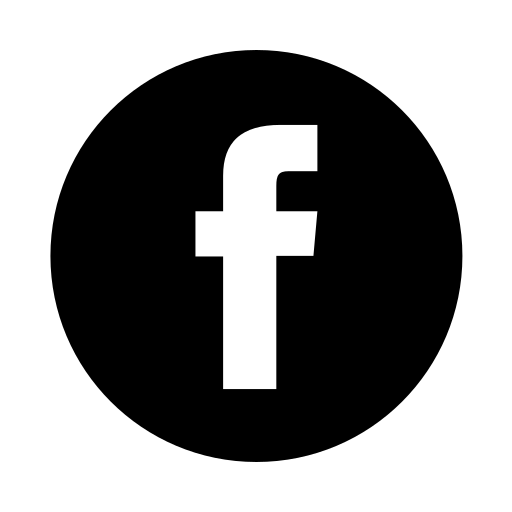
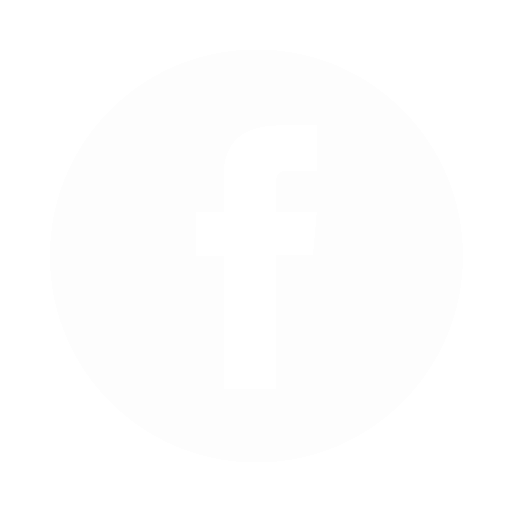
breakpoints on single site

diff --git a/assets/css/inarchives.min.css b/assets/css/inarchives.min.css
@@ -2,4 +2,4 @@
  * http://james-oldfield.co
  * Copyright (c) 2015; * Licensed GPLv2+ */
 
-@font-face{font-family:Mohave;src:url(../../assets/fonts/Mohave.otf) format("opentype")}@font-face{font-family:'Mohave Italics';src:url("../../assets/fonts/Mohave Italics.otf") format("opentype")}@font-face{font-family:Mohave-Bold;src:url(../../assets/fonts/Mohave-Bold.otf) format("opentype")}@font-face{font-family:'Mohave-Bold Italics';src:url("../../assets/fonts/Mohave-Bold Italics.otf") format("opentype")}::selection{color:#fff;background:#1a1a1a}::-moz-selection{color:#fff;background:#1a1a1a}body{font-family:Mohave,sans-serif!important;background:#fff;margin-top:-20px;word-wrap:break-word!important}.header{border-bottom:solid 3px #1a1a1a;background:url(../../images/girlBackground.jpg) top/auto 100%;padding:30px 20px!important}.header h2{font-family:'Mohave Italics',sans-serif;letter-spacing:10px}.header h2 a{color:#1a1a1a;text-decoration:none}.header .remind{margin-top:50px}.header .remind a{border:2px solid #fff;background:#000;background:rgba(0,0,0,.1);color:#fff;padding:20px;font-size:16px}.header h3{color:#fff;font-family:'Mohave Italics',sans-serif;letter-spacing:5px}.header h3 a{text-decoration:none;color:#fff;padding:0 5px;transition:background .1s ease;transition:color .1s ease}.header h3 a:hover{background:#1a1a1a;color:#fff}.header #countdown{color:#fff;font-size:50px;font-family:Mohave-Bold,sans-serif!important}input.signUp{color:#1a1a1a;text-align:center!important;font-size:12px!important;height:50px!important;width:300px;border:2px solid #d3d3d3!important}.attachment-post-thumb{max-width:100%;height:auto}.main{padding:30px 0}.main .title p{font-size:18px;margin:15px 0!important;color:#1a1a1a}.social-icons{background:#1a1a1a;color:#fff;padding:50px 0}.social-icons h3{margin-bottom:20px}.social-icons .clickMe{margin-top:20px;border-radius:0!important;color:#fff;background:#1a1a1a;border:1px solid #fff;font-size:14px;text-transform:uppercase;padding:14px 24px;transition:background-color .25s ease}.social-icons .clickMe:hover{background:#fff;color:#1a1a1a}.twpolBody{background:url(../../images/girlBackground.jpg) center/cover no-repeat fixed;-webkit-background-size:cover;-moz-background-size:cover;-o-background-size:cover}.twpol{height:135%!important;position:absolute;width:100%}.twpol .logo{margin-top:50px}.twpolMain{margin-bottom:100px}.twpolMain .details{margin-top:50px}.twpolMain .details h2 a{color:#fff;padding:5px}.twpolMain .details h2 a:hover{text-decoration:none;color:#1a1a1a;background:#fff}.twpolMain .details .socialIcons{margin:25px auto}.twpolMain h1{padding-bottom:50px}.twpolMain .videoWrapper{position:relative;padding-bottom:56.25%;padding-top:25px}.twpolMain .videoWrapper iframe{position:absolute;top:0;left:0;width:100%;height:100%}.twpolMain .albumWrapper img{max-width:100%;height:auto}.twpolBody{min-height:100%;margin:0}@media only screen and (min-width:768px){.header{background-size:100% auto}.header #countdown,.header h3 a{color:#1a1a1a}.main .title p{font-size:18px;font-size:1vw}.twpol{padding:100px 100px 75%}.twpol .logo{margin-top:0}.twpolMain{background:rgba(255,255,255,.5);padding:50px;border:3px solid #1a1a1a;width:100%;display:inline-block}.twpolMain .details h2 a{color:#1a1a1a}.twpolMain .details h2 a:hover{color:#fff;background:#1a1a1a}.attachment-post-thumb{max-height:10vw;width:auto}}@media only screen and (min-width:992px){.twpol{background-size:100% auto}}@media only screen and (min-width:1479px){.attachment-post-thumb{max-height:5vw;width:auto}}
+@font-face{font-family:Mohave;src:url(../../assets/fonts/Mohave.otf) format("opentype")}@font-face{font-family:'Mohave Italics';src:url("../../assets/fonts/Mohave Italics.otf") format("opentype")}@font-face{font-family:Mohave-Bold;src:url(../../assets/fonts/Mohave-Bold.otf) format("opentype")}@font-face{font-family:'Mohave-Bold Italics';src:url("../../assets/fonts/Mohave-Bold Italics.otf") format("opentype")}::selection{color:#fff;background:#1a1a1a}::-moz-selection{color:#fff;background:#1a1a1a}body{font-family:Mohave,sans-serif!important;background:#fff;margin-top:-20px;word-wrap:break-word!important}.header{border-bottom:solid 3px #1a1a1a;background:url(../../images/girlBackground.jpg) top/auto 100%;padding:30px 20px!important}.header h2{font-family:'Mohave Italics',sans-serif;letter-spacing:10px}.header h2 a{color:#1a1a1a;text-decoration:none}.header .remind{margin-top:50px}.header .remind a{border:2px solid #fff;background:#000;background:rgba(0,0,0,.1);color:#fff;padding:20px;font-size:16px}.header h3{color:#fff;font-family:'Mohave Italics',sans-serif;letter-spacing:5px}.header h3 a{text-decoration:none;color:#fff;padding:0 5px;transition:background .1s ease;transition:color .1s ease}.header h3 a:hover{background:#1a1a1a;color:#fff}.header #countdown{color:#fff;font-size:50px;font-family:Mohave-Bold,sans-serif!important}input.signUp{color:#1a1a1a;text-align:center!important;font-size:12px!important;height:50px!important;width:300px;border:2px solid #d3d3d3!important}.attachment-post-thumb{max-width:100%;height:auto}.main{padding:30px 0}.main .title p{font-size:18px;margin:15px 0!important;color:#1a1a1a}.social-icons{background:#1a1a1a;color:#fff;padding:50px 0}.social-icons h3{margin-bottom:20px}.social-icons .clickMe{margin-top:20px;border-radius:0!important;color:#fff;background:#1a1a1a;border:1px solid #fff;font-size:14px;text-transform:uppercase;padding:14px 24px;transition:background-color .25s ease}.social-icons .clickMe:hover{background:#fff;color:#1a1a1a}.twpolBody{background:url(../../images/girlBackground.jpg) center/cover no-repeat fixed;-webkit-background-size:cover;-moz-background-size:cover;-o-background-size:cover}.twpol{height:135%!important;position:absolute;width:100%}.twpol .logo{margin-top:50px}.twpolMain{margin-bottom:100px}.twpolMain .details{margin-top:25px}.twpolMain .details h2{margin:0}.twpolMain .details h2 a{font-size:18px;color:#fff;padding:2px;margin:5px auto}.twpolMain .details h2 a:hover{text-decoration:none;color:#1a1a1a;background:#fff}.twpolMain .details .socialIcons img{opacity:transition opacity ease .2s}.twpolMain .details .socialIcons img:hover{opacity:.5}.twpolMain h1{padding-bottom:50px}.twpolMain .videoWrapper{position:relative;padding-bottom:56.25%;padding-top:25px}.twpolMain .videoWrapper iframe{position:absolute;top:0;left:0;width:100%;height:100%}.twpolMain .albumWrapper img{margin-top:50px;width:88%;height:auto}.twpolBody{min-height:100%;margin:0}@media only screen and (min-width:768px){.twpol,.twpolBody{position:fixed}.header{background-size:100% auto}.header #countdown,.header h3 a{color:#1a1a1a}.main .title p{font-size:18px;font-size:1vw}.twpol{padding:50px 100px}.twpol .logo{margin-top:0}.twpolMain{background:rgba(255,255,255,.5);padding:0;border:3px solid #1a1a1a;width:100%;display:inline-block}.twpolMain h1{font-size:28px;padding-bottom:20px}.twpolMain .staticHeight{height:250px!important}.twpolMain .staticHeight .albumWrapper,.twpolMain .staticHeight .albumWrapper img{height:100%!important;width:auto}.twpolMain .albumWrapper img{margin:0}.twpolMain .details{margin-top:0}.twpolMain .details h2 a{color:#fff}.twpolMain .details h2 a:hover{color:#fff;background:#1a1a1a}.attachment-post-thumb{max-height:10vw;width:auto}}@media only screen and (min-width:992px){.twpol{background-size:100% auto}.twpolMain{padding:20px 100px}}@media only screen and (min-width:1200px){.twpolMain{padding:20px 200px}}@media only screen and (min-width:1479px){.attachment-post-thumb{max-height:5vw;width:auto}}

diff --git a/assets/css/inarchives.css b/assets/css/inarchives.css
@@ -127,16 +127,22 @@ input.signUp {
 .twpolMain {
   margin-bottom: 100px; }
   .twpolMain .details {
-    margin-top: 50px; }
-    .twpolMain .details h2 a {
-      color: #fff;
-      padding: 5px; }
-      .twpolMain .details h2 a:hover {
-        text-decoration: none;
-        color: #1a1a1a;
-        background: #fff; }
-    .twpolMain .details .socialIcons {
-      margin: 25px auto; }
+    margin-top: 25px; }
+    .twpolMain .details h2 {
+      margin: 0px; }
+      .twpolMain .details h2 a {
+        font-size: 18px;
+        color: #fff;
+        padding: 2px;
+        margin: 5px auto; }
+        .twpolMain .details h2 a:hover {
+          text-decoration: none;
+          color: #1a1a1a;
+          background: #fff; }
+    .twpolMain .details .socialIcons img {
+      opacity: transition opacity ease 0.2s; }
+      .twpolMain .details .socialIcons img:hover {
+        opacity: 0.5; }
   .twpolMain h1 {
     padding-bottom: 50px; }
   .twpolMain .videoWrapper {
@@ -150,7 +156,8 @@ input.signUp {
     width: 100%;
     height: 100%; }
   .twpolMain .albumWrapper img {
-    max-width: 100%;
+    margin-top: 50px;
+    width: 88%;
     height: auto; }
 
 .twpolBody {
@@ -158,6 +165,9 @@ input.signUp {
   margin: 0px; }
 
 @media only screen and (min-width: 768px) {
+  .twpolBody, .twpol {
+    position: fixed; }
+
   .header {
     background-size: 100% auto; }
     .header h3 a {
@@ -170,29 +180,47 @@ input.signUp {
     font-size: 1vw; }
 
   .twpol {
-    padding: 100px;
-    padding-bottom: 75%; }
+    padding: 50px 100px; }
     .twpol .logo {
       margin-top: 0px; }
 
   .twpolMain {
     background: rgba(255, 255, 255, 0.5);
-    padding: 50px;
+    padding: 0px;
     border: solid 3px #1a1a1a;
     width: 100%;
     display: inline-block; }
-    .twpolMain .details h2 a {
-      color: #1a1a1a; }
-      .twpolMain .details h2 a:hover {
-        color: #fff;
-        background: #1a1a1a; }
+    .twpolMain h1 {
+      font-size: 28px;
+      padding-bottom: 20px; }
+    .twpolMain .staticHeight {
+      height: 250px !important; }
+      .twpolMain .staticHeight .albumWrapper, .twpolMain .staticHeight .albumWrapper img {
+        height: 100% !important;
+        width: auto; }
+    .twpolMain .albumWrapper img {
+      margin: 0px; }
+    .twpolMain .details {
+      margin-top: 0px; }
+      .twpolMain .details h2 a {
+        color: #fff; }
+        .twpolMain .details h2 a:hover {
+          color: #fff;
+          background: #1a1a1a; }
 
   .attachment-post-thumb {
     max-height: 10vw;
     width: auto; } }
 @media only screen and (min-width: 992px) {
   .twpol {
-    background-size: 100% auto; } }
+    background-size: 100% auto; }
+
+  .twpolMain {
+    padding: 20px 100px; } }
+/* Large Devices, Wide Screens */
+@media only screen and (min-width: 1200px) {
+  .twpolMain {
+    padding: 20px 200px; } }
 @media only screen and (min-width: 1479px) {
   .attachment-post-thumb {
     max-height: 5vw;

diff --git a/assets/css/sass/inarchives.scss b/assets/css/sass/inarchives.scss
@@ -159,19 +159,28 @@ input.signUp{
 .twpolMain {
 	margin-bottom: 100px;
 	.details {
-		margin-top: 50px;
-		h2 a{
-			color: $myWhite;
-			padding: 5px;
+		margin-top: 25px;
+		h2{ 
+			margin: 0px;
+			a{
+				font-size: 18px;
+				color: $myWhite;
+				padding: 2px;
+				margin: 5px auto;
 
-			&:hover {
-				text-decoration: none;
-				color: $myBlack;
-				background: $myWhite;
+				&:hover {
+					text-decoration: none;
+					color: $myBlack;
+					background: $myWhite;
+				}
 			}
-		}
-		.socialIcons {
-			margin: 25px auto;
+		} 
+
+		.socialIcons img{
+			opacity: transition opacity ease 0.2s;
+			&:hover {
+				opacity: 0.5;
+			}
 		}
 	}
 
@@ -192,7 +201,8 @@ input.signUp{
 		height: 100%;
 	}
 	.albumWrapper img {
-		max-width: 100%;
+		margin-top: 50px;
+		width: 88%;
 		height: auto;
 	}
 }
@@ -204,6 +214,9 @@ input.signUp{
 
 // MQ'S
 	@media only screen and (min-width : 768px) {
+		.twpolBody, .twpol {
+			position: fixed;
+		}
 		.header {
 			background-size: 100% auto;
 
@@ -225,22 +238,40 @@ input.signUp{
 		}
 
 		.twpol{
-			padding: 100px;
-			padding-bottom: 75%;
+			padding: 50px 100px;
 			.logo {
 				margin-top: 0px;
 			}
 		}
 		.twpolMain {
 			background: rgba( 255, 255, 255, .5 );
-			padding: 50px;
+			padding: 0px;
 			border: solid 3px $myBlack;
 			width: 100%;
 			display: inline-block;
 
+			h1{
+				font-size: 28px;
+				padding-bottom: 20px;
+			}
+
+			.staticHeight {
+				height: 250px!important;
+
+				.albumWrapper, .albumWrapper img{
+					height: 100%!important;
+					width: auto;
+				}
+			}
+
+			.albumWrapper img {
+				margin: 0px;
+			}
+
 			.details {
+				margin-top: 0px;
 				h2 a{
-					color: $myBlack;
+					color: $myWhite;
 
 					&:hover {
 						color: $myWhite;
@@ -262,7 +293,17 @@ input.signUp{
 		.twpol {
 			background-size: 100% auto;
 		}
+		.twpolMain {
+			padding: 20px 100px;
+		}
 	}
+
+	  /* Large Devices, Wide Screens */
+    @media only screen and (min-width : 1200px) {
+			.twpolMain {
+				padding: 20px 200px;
+			}
+    }
 
 	// screens > 15 inch
 	@media only screen and (min-width : 1479px) {

diff --git a/twpol.php b/twpol.php
@@ -36,7 +36,7 @@ Template Name: twpol template
 <div class="twpol text-center">
 	<div class="twpolMain">
         <div class="col-xs-12">
-            <img class="logo" src="<?php bloginfo( 'template_url' );?>/images/logo.png" alt="In Archives logo" width="250px" height="auto">
+            <img class="logo" src="<?php bloginfo( 'template_url' );?>/images/logo.png" alt="In Archives logo" width="150px" height="auto">
             <h1>THE WORST PART OF LIFE</h1>
         </div>
         <div class="col-xs-12 col-sm-7">
@@ -52,15 +52,15 @@ Template Name: twpol template
         <div class="col-xs-12 details">
             <h2><a href="/">Stream "The worst part of life" EP for free</a></h2>
             <div class="socialIcons">
-                <img src="<?php bloginfo( 'template_url' );?>/images/spotify.png" alt="spotify logo" width="50px" height="auto">
-                <img src="<?php bloginfo( 'template_url' );?>/images/youtube.png" alt="youtube logo" width="50px" height="auto">
+                <a href=""><img src="<?php bloginfo( 'template_url' );?>/images/spotify.png" alt="spotify logo" width="35px" height="auto"></a>
+                <a href=""><img src="<?php bloginfo( 'template_url' );?>/images/youtube.png" alt="youtube logo" width="35px" height="auto"></a>
             </div>
             <h2><a href="/">Purchase merch and bundles</a></h2>
             <div class="socialIcons bottom">
-                <img src="<?php bloginfo( 'template_url' );?>/images/fb.png" alt="facebook logo" width="50px" height="auto">
-                <img src="<?php bloginfo( 'template_url' );?>/images/insta.png" alt="instagram logo" width="50px" height="auto">
-                <img src="<?php bloginfo( 'template_url' );?>/images/twitter.png" alt="twitter logo" width="50px" height="auto">
-                <img src="<?php bloginfo( 'template_url' );?>/images/tumblr.png" alt="tumblr logo" width="50px" height="auto">
+                <a href=""><img src="<?php bloginfo( 'template_url' );?>/images/fb.png" alt="facebook logo" width="35px" height="auto"></a>
+                <a href=""><img src="<?php bloginfo( 'template_url' );?>/images/insta.png" alt="instagram logo" width="35px" height="auto"></a>
+                <a href=""><img src="<?php bloginfo( 'template_url' );?>/images/twitter.png" alt="twitter logo" width="35px" height="auto"></a>
+                <a href=""><img src="<?php bloginfo( 'template_url' );?>/images/tumblr.png" alt="tumblr logo" width="35px" height="auto"></a>
             </div>
         </div>
     </div>
